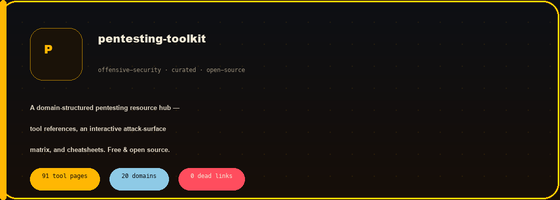
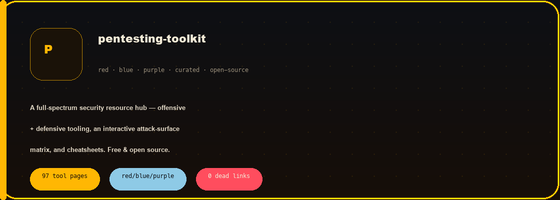
Reflect full-spectrum (red/blue/purple) scope + 97 tools on profile

diff --git a/README.md b/README.md
@@ -20,8 +20,8 @@
 ```bash
 sudobittu — Independent Security Researcher
 
-focus       : penetration testing · red teaming · QR/mobile phishing research
-building    : curated, always-current, free & open-source security tooling
+focus       : red · blue · purple teaming · QR/mobile phishing research
+building    : a full-spectrum, free & open-source pentesting toolkit
 disclosure  : DEF CON 34 — Telecom Village (The Signal Switch)
 principle   : everything shipped is for authorized, ethical testing only
 ```
